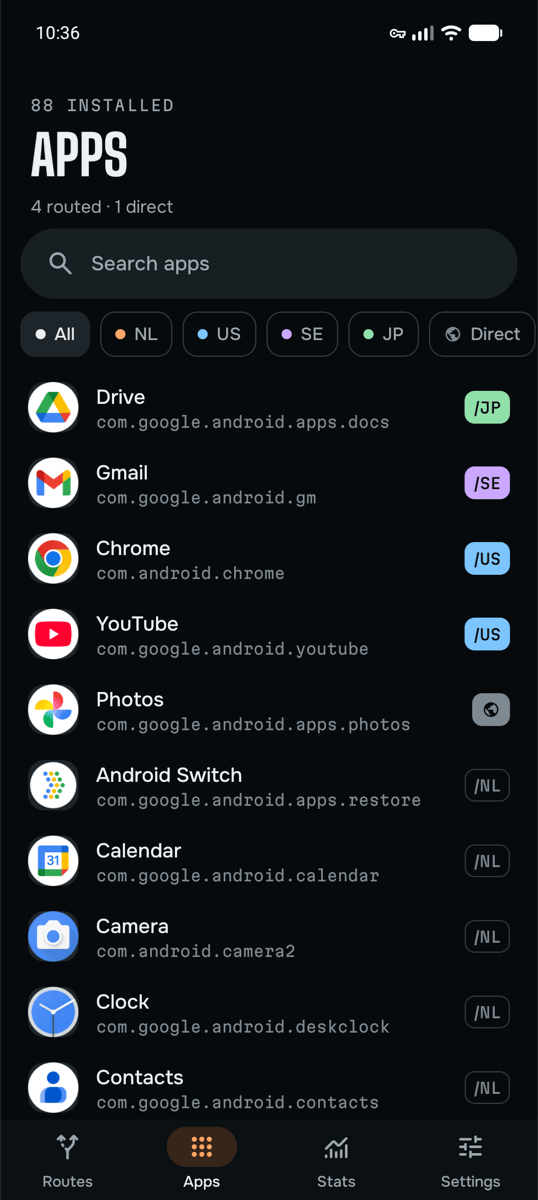
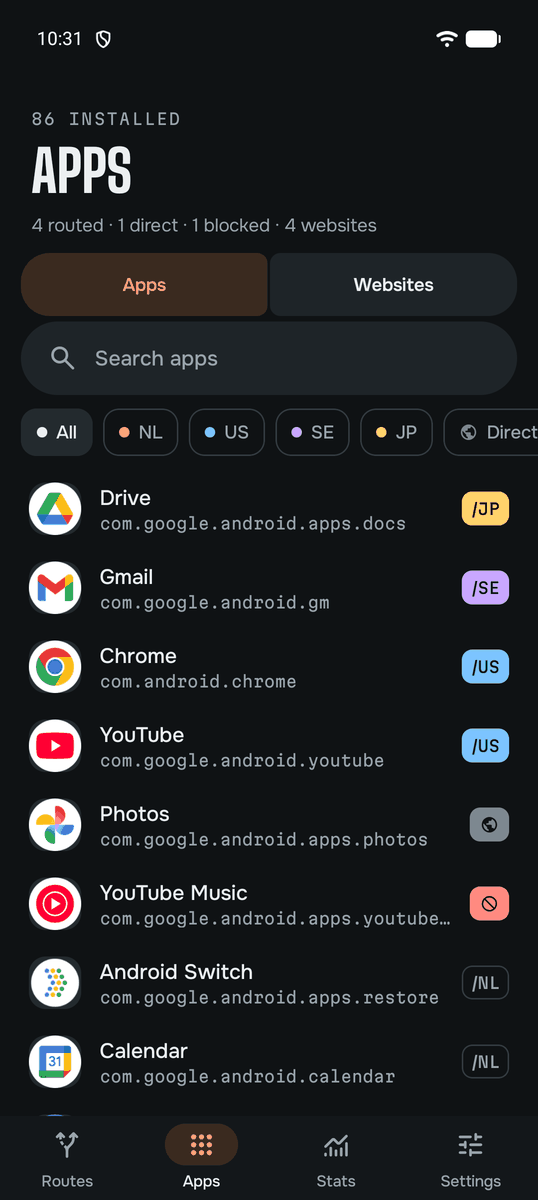
Version 3.0.1: README, description and screenshots for websites, Block and profiles by network
The README and the app description cover website routes, Block and
profiles that switch on Wi-Fi or mobile data, with their limits. New
Routes and Apps screenshots and one of the Websites list.

diff --git a/README.md b/README.md
@@ -24,14 +24,16 @@ at the same time. If you use Tailscale, your home network stays reachable too.
 
 <table align="center">
   <tr>
-    <td align="center" width="25%"><img src=".github/screenshots/routes.png" alt="Routes screen: a default exit in the Netherlands, with Chrome and YouTube in the US, Gmail in Sweden, Drive in Japan and Photos set to Direct" width="200"></td>
-    <td align="center" width="25%"><img src=".github/screenshots/apps.png" alt="Apps screen: every installed app with the exit it uses" width="200"></td>
-    <td align="center" width="25%"><img src=".github/screenshots/providers.png" alt="Choosing a location for a new route, with the list of signed-in providers open" width="200"></td>
-    <td align="center" width="25%"><img src=".github/screenshots/stats.png" alt="Stats screen: data used per provider, live speed, connected time and speed tests" width="200"></td>
+    <td align="center" width="20%"><img src=".github/screenshots/routes.png" alt="Routes screen: the profile in use, a default exit in the Netherlands, and Chrome, YouTube and a website in the US, Gmail in Sweden, Drive and a website in Japan" width="170"></td>
+    <td align="center" width="20%"><img src=".github/screenshots/apps.png" alt="Apps screen: every installed app with the exit it uses, one set to Direct and one blocked" width="170"></td>
+    <td align="center" width="20%"><img src=".github/screenshots/websites.png" alt="Websites list: one website through Japan, one through the United States, one Direct and one blocked" width="170"></td>
+    <td align="center" width="20%"><img src=".github/screenshots/providers.png" alt="Choosing a location for a new route, with the list of signed-in providers open" width="170"></td>
+    <td align="center" width="20%"><img src=".github/screenshots/stats.png" alt="Stats screen: data used per provider, live speed, connected time and speed tests" width="170"></td>
   </tr>
   <tr>
     <td align="center"><sub>Each app gets its own exit</sub></td>
     <td align="center"><sub>See every app's route at a glance</sub></td>
+    <td align="center"><sub>Route or block a website</sub></td>
     <td align="center"><sub>Mix providers and countries</sub></td>
     <td align="center"><sub>Usage, speed and connected time</sub></td>
   </tr>
@@ -44,13 +46,17 @@ providers. It needs macOS 26 or later.
 
 - Give any app its own exit country or server, let it follow the default route, or let it skip the VPN with
   Direct. Several exits stay connected at once.
+- Give a website its own route too, in the apps that go through unbraid. A website's route wins over the app's.
+- Block an app or a website: a blocked app gets no internet connection while unbraid is connected.
 - Use the VPN accounts you already have. One route can go through Mullvad while another uses NordVPN.
 - Reach your home network through Tailscale or Headscale, or send chosen apps out through a Tailscale exit node.
 - A low-load server is picked for you when the provider publishes load, or you can pin one server yourself.
 - Ad and tracker blocking per route with the provider's own blocking DNS, where it has one.
-- Saved profiles, a home-screen widget, a quick-settings tile and a pause that reconnects by itself.
+- Saved profiles that can switch by themselves on Wi-Fi and on mobile data, home-screen widgets, a quick-settings
+  tile and a pause that reconnects by itself.
 - Back up your setup to a passphrase-protected file and restore it on this phone or a new one.
-- Stats on the phone: data per provider, connected time and speed tests across several exits at once.
+- Stats on the phone: data per provider, app and routed website, connected time and speed tests across several
+  exits at once.
 - No ads, no unbraid account and no analytics of our own. Free software under the GPL.
 
 ## What it works with
@@ -79,7 +85,9 @@ Routes can mix providers. One app can use Mullvad in Sweden while another uses N
    Tailscale.
 5. To send some apps somewhere else, tap +, then Route, and choose another country or server. Open the Apps tab
    and tap Show my apps (the list stays on your phone). Then tap an app and pick its route. Pick Direct for apps
-   that should not use the VPN at all, like a banking app.
+   that should not use the VPN at all, like a banking app, or Block for an app that should get no internet connection.
+6. To route a website, switch the Apps tab to Websites, tap +, type its address and pick a route. It applies in
+   the apps that go through unbraid and look names up through it.
 
 Each release lists the APK's SHA-256 checksum and the fingerprint of the signing certificate.
 [unbraid.app/download](https://unbraid.app/download/) explains how to check them before you install.
@@ -108,6 +116,22 @@ and identifies itself only as "unbraid".
 
 In many VPN apps, split tunneling means you can pick apps that skip the VPN, while every other app leaves from the
 same place. unbraid lets you choose an exit for each app, and those exits can come from different providers.
+
+### Can I route a website and not a whole app?
+
+Yes. On the Apps tab, the Websites list gives an address its own route, Direct or Block, and that beats the route
+of the app that opens it. A rule covers the address and everything under it (example.com and www.example.com); a
+service that uses other addresses needs each one added. unbraid knows a website by the name the app looks up, so
+the rule does not reach apps that Android keeps outside the VPN, such as apps set to Direct, or a browser that
+uses its own secure DNS, which keeps its app's route.
+
+### What does Block do?
+
+An app on Block gets no internet connection while unbraid is connected: not through a route, not Direct, and no
+names are looked up for it. A switch decides whether it can still reach devices on your local network. While any
+app is blocked, unbraid refuses pings and connections that Android can't tie to an app. A blocked website can't be
+looked up in the apps that go through unbraid. Block works only while unbraid is connected; for the time it is
+off, use Android's "Block connections without VPN".
 
 ### Why isn't it on Google Play?
 
@@ -144,7 +168,7 @@ Android allows one VPN app at a time, so unbraid runs a single `VpnService` with
 [sing-box](https://github.com/SagerNet/sing-box) engine behind it.
 
 ```
-apps -> TUN -> sing-box -> rules: DNS, home, LAN, the app's route, default
+apps -> TUN -> sing-box -> rules: block, DNS, home, LAN, website routes, the app's route, default
                            |- one WireGuard or OpenVPN exit per location
                            |- Tailscale node (home)
                            '- direct
@@ -153,10 +177,13 @@ apps -> TUN -> sing-box -> rules: DNS, home, LAN, the app's route, default
 Each TCP and UDP connection is routed by the app that owns it, which Android reports through
 `ConnectivityManager.getConnectionOwnerUid`. When an app hands a connection to another app or system service, such as
 for a download, a browser tab or a push message, that connection follows the other app or service's route. Ping has no owning app, so it follows the default route (when Direct is the default and other apps use VPN routes, internet ping is blocked instead). DNS is answered with fake addresses and looked up again on the exit
-the app really uses, so a site sees the country you picked for that app. Apps you set to Direct are left out of the
+the app really uses, so a site sees the country you picked for that app, or for that website when it has a route of its own. Apps you set to Direct are left out of the
 VPN by Android itself, unless you turn on "Block connections without VPN" or set the DNS filter to cover Direct
 traffic. Then they go through unbraid and are sent straight out from inside the app. Apps that only follow a
-Direct default route always go through unbraid. Only the default route and the routes your apps use are connected.
+Direct default route always go through unbraid. Only the default route and the routes your apps and websites use are connected.
+
+A website rule matches the name unbraid itself answered with a fake address, never a name read from the connection,
+so an app can't claim another site's route. Blocked apps are refused before any other rule, DNS included.
 
 For NordVPN, unbraid picks a server from the provider's low-load recommendations when it connects, unless you
 pinned one. Server lists
